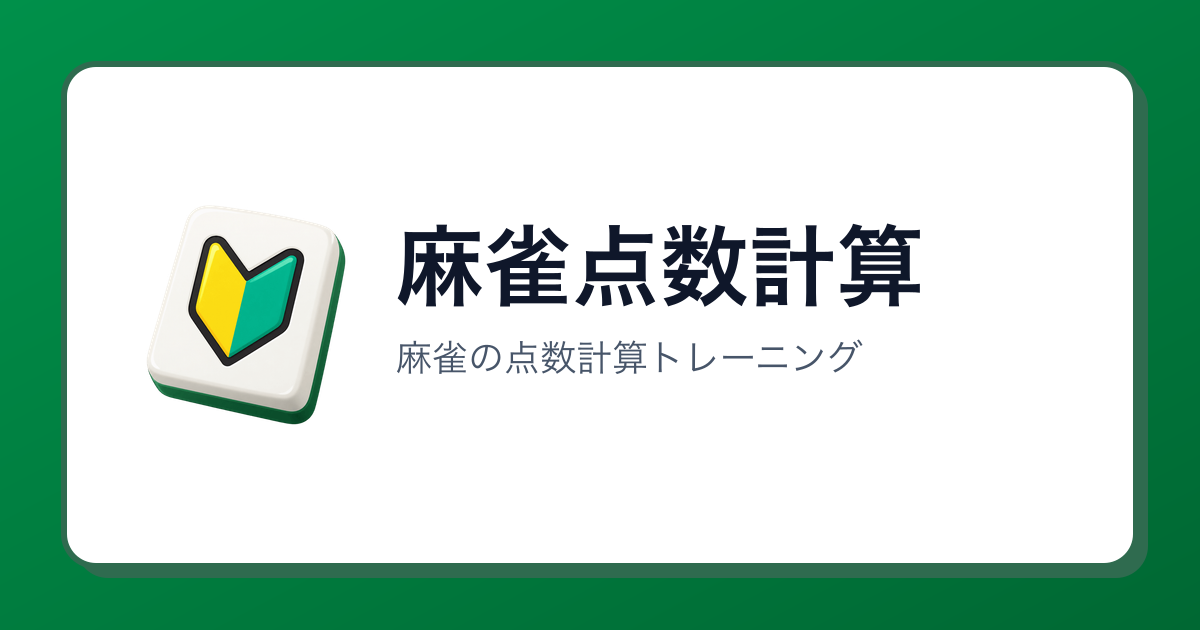
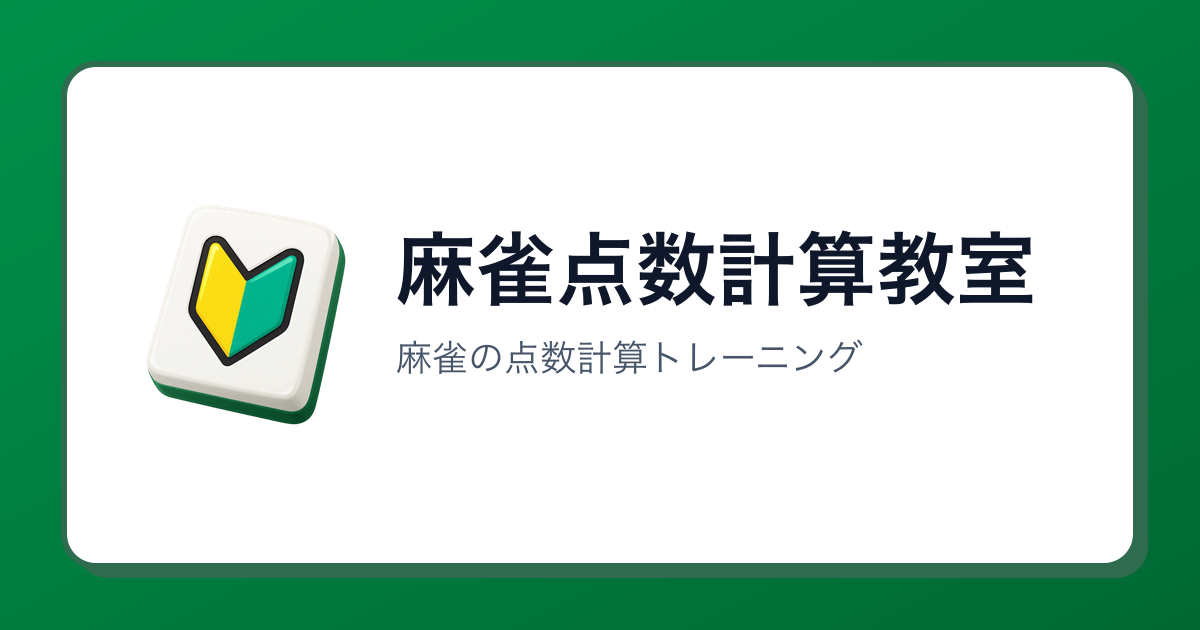
feat: rename the site to 麻雀点数計算教室
The name now says what the product is — lessons, practice and exams for
learning to score. 道場 was considered and dropped: it reads as stern to
users the app wants to welcome.

The dictionary's metadata.siteName stays the single source; the logo's
two-colour split, the Supabase email subjects and the regenerated email
templates and OG image follow it. The OG title drops from 88px to 80px so
the eight characters fit the card.

Changed region(s): [[0.3392, 0.3619, 0.8633, 0.4825]]

diff --git a/apps/web/supabase/templates/confirmation.html b/apps/web/supabase/templates/confirmation.html
@@ -4,7 +4,7 @@
   <head>
     <meta charset="utf-8" />
     <meta name="viewport" content="width=device-width, initial-scale=1.0" />
-    <title>麻雀点数計算 - メールアドレスの確認</title>
+    <title>麻雀点数計算教室 - メールアドレスの確認</title>
   </head>
   <body style="margin: 0; padding: 0; background-color: #f5f5f5; font-family: -apple-system, BlinkMacSystemFont, 'Segoe UI', Roboto, Helvetica, Arial, sans-serif;">
     <table role="presentation" width="100%" cellpadding="0" cellspacing="0" style="background-color: #f5f5f5;">
@@ -13,14 +13,14 @@
           <table role="presentation" width="480" cellpadding="0" cellspacing="0" style="background-color: #ffffff; border-radius: 8px; max-width: 480px;">
             <tr>
               <td style="padding: 32px 32px 24px; text-align: center; border-bottom: 1px solid #e5e5e5;">
-                <h1 style="margin: 0; font-size: 20px; font-weight: 600; color: #1a1a1a;">麻雀点数計算</h1>
+                <h1 style="margin: 0; font-size: 20px; font-weight: 600; color: #1a1a1a;">麻雀点数計算教室</h1>
               </td>
             </tr>
             <tr>
               <td style="padding: 32px;">
                 <h2 style="margin: 0 0 16px; font-size: 18px; font-weight: 600; color: #1a1a1a;">メールアドレスの確認</h2>
                 <p style="margin: 0 0 24px; font-size: 15px; line-height: 1.6; color: #444444;">
-                  麻雀点数計算へのご登録ありがとうございます。以下のボタンをクリックして、メールアドレスを確認してください。
+                  麻雀点数計算教室へのご登録ありがとうございます。以下のボタンをクリックして、メールアドレスを確認してください。
                 </p>
                 <table role="presentation" width="100%" cellpadding="0" cellspacing="0">
                   <tr>
@@ -38,7 +38,7 @@
             </tr>
             <tr>
               <td style="padding: 24px 32px; border-top: 1px solid #e5e5e5; text-align: center;">
-                <p style="margin: 0; font-size: 12px; color: #aaaaaa;">麻雀点数計算</p>
+                <p style="margin: 0; font-size: 12px; color: #aaaaaa;">麻雀点数計算教室</p>
               </td>
             </tr>
           </table>

diff --git a/apps/web/scripts/generate-og-image.ts b/apps/web/scripts/generate-og-image.ts
@@ -37,6 +37,9 @@ const FONT_STACK =
 const CARD = { x: 64, y: 64, w: WIDTH - 128, h: HEIGHT - 128, r: 32 } as const;
 const SHADOW_OFFSET = 12;
 const LOGO_SIZE = 220;
+/** サイト名「麻雀点数計算教室」（8 文字）がカードの実効幅 700px に収まる大きさ */
+const SITE_NAME_FONT_SIZE = 80;
+const TAGLINE_FONT_SIZE = 36;
 
 function escapeXml(value: string): string {
   return value.replace(
@@ -89,16 +92,16 @@ function buildBackgroundSvg(siteName: string, tagline: string): string {
   <rect x="${CARD.x}" y="${CARD.y}" width="${CARD.w}" height="${CARD.h}"
         rx="${CARD.r}" fill="#ffffff" stroke="${INK}" stroke-width="6"/>
   <text x="${textX}" y="${HEIGHT / 2 - 16}" font-family="${FONT_STACK}"
-        font-size="88" font-weight="700" fill="${SURFACE_900}">${escapeXml(siteName)}</text>
+        font-size="${SITE_NAME_FONT_SIZE}" font-weight="700" fill="${SURFACE_900}">${escapeXml(siteName)}</text>
   <text x="${textX}" y="${HEIGHT / 2 + 56}" font-family="${FONT_STACK}"
-        font-size="36" font-weight="400" fill="${SURFACE_600}">${escapeXml(tagline)}</text>
+        font-size="${TAGLINE_FONT_SIZE}" font-weight="400" fill="${SURFACE_600}">${escapeXml(tagline)}</text>
 </svg>`;
 }
 
 async function main(): Promise<void> {
   const { siteName, siteTagline } = messages.metadata;
-  assertTextFits("サイト名", siteName, 88);
-  assertTextFits("キャッチコピー", siteTagline, 36);
+  assertTextFits("サイト名", siteName, SITE_NAME_FONT_SIZE);
+  assertTextFits("キャッチコピー", siteTagline, TAGLINE_FONT_SIZE);
   const webRoot = join(dirname(fileURLToPath(import.meta.url)), "..");
 
   const background = await sharp(

diff --git a/apps/web/supabase/templates/email_change.html b/apps/web/supabase/templates/email_change.html
@@ -4,7 +4,7 @@
   <head>
     <meta charset="utf-8" />
     <meta name="viewport" content="width=device-width, initial-scale=1.0" />
-    <title>麻雀点数計算 - メールアドレス変更の確認</title>
+    <title>麻雀点数計算教室 - メールアドレス変更の確認</title>
   </head>
   <body style="margin: 0; padding: 0; background-color: #f5f5f5; font-family: -apple-system, BlinkMacSystemFont, 'Segoe UI', Roboto, Helvetica, Arial, sans-serif;">
     <table role="presentation" width="100%" cellpadding="0" cellspacing="0" style="background-color: #f5f5f5;">
@@ -13,7 +13,7 @@
           <table role="presentation" width="480" cellpadding="0" cellspacing="0" style="background-color: #ffffff; border-radius: 8px; max-width: 480px;">
             <tr>
               <td style="padding: 32px 32px 24px; text-align: center; border-bottom: 1px solid #e5e5e5;">
-                <h1 style="margin: 0; font-size: 20px; font-weight: 600; color: #1a1a1a;">麻雀点数計算</h1>
+                <h1 style="margin: 0; font-size: 20px; font-weight: 600; color: #1a1a1a;">麻雀点数計算教室</h1>
               </td>
             </tr>
             <tr>
@@ -38,7 +38,7 @@
             </tr>
             <tr>
               <td style="padding: 24px 32px; border-top: 1px solid #e5e5e5; text-align: center;">
-                <p style="margin: 0; font-size: 12px; color: #aaaaaa;">麻雀点数計算</p>
+                <p style="margin: 0; font-size: 12px; color: #aaaaaa;">麻雀点数計算教室</p>
               </td>
             </tr>
           </table>

diff --git a/apps/web/supabase/templates/recovery.html b/apps/web/supabase/templates/recovery.html
@@ -4,7 +4,7 @@
   <head>
     <meta charset="utf-8" />
     <meta name="viewport" content="width=device-width, initial-scale=1.0" />
-    <title>麻雀点数計算 - パスワードのリセット</title>
+    <title>麻雀点数計算教室 - パスワードのリセット</title>
   </head>
   <body style="margin: 0; padding: 0; background-color: #f5f5f5; font-family: -apple-system, BlinkMacSystemFont, 'Segoe UI', Roboto, Helvetica, Arial, sans-serif;">
     <table role="presentation" width="100%" cellpadding="0" cellspacing="0" style="background-color: #f5f5f5;">
@@ -13,7 +13,7 @@
           <table role="presentation" width="480" cellpadding="0" cellspacing="0" style="background-color: #ffffff; border-radius: 8px; max-width: 480px;">
             <tr>
               <td style="padding: 32px 32px 24px; text-align: center; border-bottom: 1px solid #e5e5e5;">
-                <h1 style="margin: 0; font-size: 20px; font-weight: 600; color: #1a1a1a;">麻雀点数計算</h1>
+                <h1 style="margin: 0; font-size: 20px; font-weight: 600; color: #1a1a1a;">麻雀点数計算教室</h1>
               </td>
             </tr>
             <tr>
@@ -38,7 +38,7 @@
             </tr>
             <tr>
               <td style="padding: 24px 32px; border-top: 1px solid #e5e5e5; text-align: center;">
-                <p style="margin: 0; font-size: 12px; color: #aaaaaa;">麻雀点数計算</p>
+                <p style="margin: 0; font-size: 12px; color: #aaaaaa;">麻雀点数計算教室</p>
               </td>
             </tr>
           </table>

diff --git a/apps/web/docs/resend-smtp-setup.md b/apps/web/docs/resend-smtp-setup.md
@@ -38,11 +38,11 @@ Resend のダッシュボードで必要な DNS レコード（SPF、DKIM、DMAR
 1. Supabase Dashboard で **Authentication** > **Email** > **Templates** タブに移動
 2. 各テンプレートタイプについて、対応するローカルファイルから HTML コンテンツをコピー:
 
-   | テンプレートタイプ       | ローカルファイル                       | Subject                                   |
-   | ------------------------ | -------------------------------------- | ----------------------------------------- |
-   | **Confirm signup**       | `supabase/templates/confirmation.html` | `麻雀点数計算 - メールアドレスの確認`     |
-   | **Reset password**       | `supabase/templates/recovery.html`     | `麻雀点数計算 - パスワードのリセット`     |
-   | **Change email address** | `supabase/templates/email_change.html` | `麻雀点数計算 - メールアドレス変更の確認` |
+   | テンプレートタイプ       | ローカルファイル                       | Subject                                       |
+   | ------------------------ | -------------------------------------- | --------------------------------------------- |
+   | **Confirm signup**       | `supabase/templates/confirmation.html` | `麻雀点数計算教室 - メールアドレスの確認`     |
+   | **Reset password**       | `supabase/templates/recovery.html`     | `麻雀点数計算教室 - パスワードのリセット`     |
+   | **Change email address** | `supabase/templates/email_change.html` | `麻雀点数計算教室 - メールアドレス変更の確認` |
 
 3. 各テンプレートについて:
    - **Subject** を上記の値に設定

diff --git a/apps/web/docs/contact-form-setup.md b/apps/web/docs/contact-form-setup.md
@@ -46,7 +46,7 @@ Vercel（本番・プレビュー）とローカルの `.env.local` に以下を
 ## 4. 動作確認
 
 1. `/contact` から自分のメールアドレスを入力して送信する
-2. `CONTACT_TO_EMAIL` の受信箱に `[麻雀点数計算] <件名>` のメールが届くことを確認する
+2. `CONTACT_TO_EMAIL` の受信箱に `[麻雀点数計算教室] <件名>` のメールが届くことを確認する
 3. メーラーで「返信」を押し、宛先が手順 1 で入力したメールアドレス（Reply-To）になっていることを確認する
 4. [resend.com/emails](https://resend.com/emails) で配信状況を確認する
 
